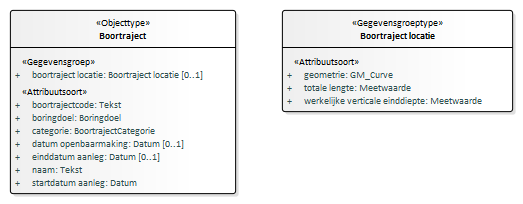
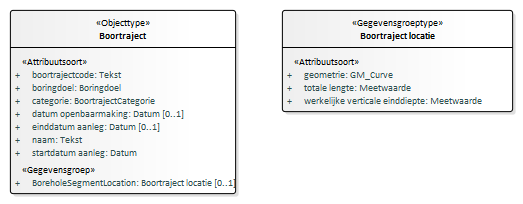
Conceptualmodel-MijnbouwconstructiesEPC-conceptueel-0.1versie27juli2020-1-20210315-20210407-151156

diff --git a/data/EPC-cat.msword.html b/data/EPC-cat.msword.html
@@ -15,7 +15,7 @@
    <body>
       <p>Conceptual model/Mijnbouwconstructies (EPC) - conceptueel/20210315</p>
       <p>Imvertor: 1.64.0</p>
-      <p>Model release: Conceptualmodel-MijnbouwconstructiesEPC-conceptueel-0.1versie27juli2020-1-20210315-20210407-145753</p>
+      <p>Model release: Conceptualmodel-MijnbouwconstructiesEPC-conceptueel-0.1versie27juli2020-1-20210315-20210407-151156</p>
       <hr>
       <section>
          <h1>Artikel 1 Definitie van registratieobject, entiteiten en attributen</h1>
@@ -62,7 +62,7 @@
          <section>
             <h2>Het domeinmodel</h2>
             <section id="">
-               <div class="imageinfo overview"><img src="Images/EAID_017CB205_53B6_4659_8664_F773CFA9FA2C.png" usemap="#imagemap-EAID_017CB205_53B6_4659_8664_F773CFA9FA2C" alt="Diagram "><map name="imagemap-EAID_017CB205_53B6_4659_8664_F773CFA9FA2C"><area shape="rect" alt="Mijnbouwwetvergunning" coords="701,10,879,90" href="#graph_EAID_27B442E5_A032_4487_8D18_F4E249D79776"><area shape="rect" alt="Zoutcaverne" coords="337,341,561,460" href="#graph_EAID_B71159A1_F213_4de2_AED5_550473F15950"><area shape="rect" alt="Mijnkaart" coords="902,341,1063,513" href="#graph_EAID_1A8DB415_AEF6_4f69_8E8C_0187A61B4D1B"><area shape="rect" alt="Ontginningszone" coords="834,593,1052,764" href="#graph_EAID_B1D55B65_6D27_4eb4_86EC_32DE6BA11322"><area shape="rect" alt="Transportzone" coords="573,592,793,750" href="#graph_EAID_828E18BC_B644_41e8_BF25_CBDE10E9249E"><area shape="rect" alt="Toegang" coords="360,593,537,751" href="#graph_EAID_35D7E222_DC56_4b0e_B219_FCFEF3AE6D86"><area shape="rect" alt="Mijnstelsel" coords="596,341,797,499" href="#graph_EAID_CACC8EE7_6654_4fe8_8333_101AC6BA294D"><area shape="rect" alt="Boorgat" coords="44,342,315,431" href="#graph_EAID_78FEC25A_E260_4420_9D1D_66F309EA2C60"><area shape="rect" alt="Boortraject" coords="44,485,257,669" href="#graph_EAID_4E52826A_2252_4994_8AD0_986AD45E18C9"><area shape="rect" alt="Mijnbouwconstructie" coords="287,10,567,264" href="#graph_EAID_69DE8D60_7E06_4b57_94CD_8338348EDAE5"></map><p><b>Mijnbouwconstructies (EPC) -  overzicht</b></p>
+               <div class="imageinfo overview"><img src="Images/EAID_017CB205_53B6_4659_8664_F773CFA9FA2C.png" usemap="#imagemap-EAID_017CB205_53B6_4659_8664_F773CFA9FA2C" alt="Diagram "><map name="imagemap-EAID_017CB205_53B6_4659_8664_F773CFA9FA2C"><area shape="rect" alt="Mijnbouwwetvergunning" coords="688,-4,866,76" href="#graph_EAID_27B442E5_A032_4487_8D18_F4E249D79776"><area shape="rect" alt="Zoutcaverne" coords="324,327,548,446" href="#graph_EAID_B71159A1_F213_4de2_AED5_550473F15950"><area shape="rect" alt="Mijnkaart" coords="889,327,1050,499" href="#graph_EAID_1A8DB415_AEF6_4f69_8E8C_0187A61B4D1B"><area shape="rect" alt="Ontginningszone" coords="821,579,1039,750" href="#graph_EAID_B1D55B65_6D27_4eb4_86EC_32DE6BA11322"><area shape="rect" alt="Transportzone" coords="560,578,780,736" href="#graph_EAID_828E18BC_B644_41e8_BF25_CBDE10E9249E"><area shape="rect" alt="Toegang" coords="347,579,524,737" href="#graph_EAID_35D7E222_DC56_4b0e_B219_FCFEF3AE6D86"><area shape="rect" alt="Mijnstelsel" coords="583,327,784,485" href="#graph_EAID_CACC8EE7_6654_4fe8_8333_101AC6BA294D"><area shape="rect" alt="Boorgat" coords="31,328,302,417" href="#graph_EAID_78FEC25A_E260_4420_9D1D_66F309EA2C60"><area shape="rect" alt="Boortraject" coords="31,471,262,655" href="#graph_EAID_4E52826A_2252_4994_8AD0_986AD45E18C9"><area shape="rect" alt="Mijnbouwconstructie" coords="274,-4,554,250" href="#graph_EAID_69DE8D60_7E06_4b57_94CD_8338348EDAE5"></map><p><b>Mijnbouwconstructies (EPC) -  overzicht</b></p>
                </div>
             </section>
          </section>
@@ -632,7 +632,7 @@
                            </tr>
                         </tbody>
                      </table>
-                     </section><a class="anchor" id="detail_d49678e2393"></a><section id="detail_d49678e2393">
+                     </section><a class="anchor" id="detail_d49680e2393"></a><section id="detail_d49680e2393">
                      <h4>  gebeurtenis</h4>
                      <table style="width: 100%;">
                         <colgroup style="width: 30%;"></colgroup>
@@ -665,7 +665,7 @@
                            </tr>
                         </tbody>
                      </table>
-                  </section><a class="anchor" id="detail_d49678e2560"></a><section id="detail_d49678e2560">
+                  </section><a class="anchor" id="detail_d49680e2560"></a><section id="detail_d49680e2560">
                      <h4>  gestandaardiseerde locatie</h4>
                      <table style="width: 100%;">
                         <colgroup style="width: 30%;"></colgroup>
@@ -711,7 +711,7 @@
                            </tr>
                         </tbody>
                      </table>
-                  </section><a class="anchor" id="detail_d49678e2776"></a><section id="detail_d49678e2776">
+                  </section><a class="anchor" id="detail_d49680e2776"></a><section id="detail_d49680e2776">
                      <h4>  levensduur</h4>
                      <table style="width: 100%;">
                         <colgroup style="width: 30%;"></colgroup>
@@ -745,7 +745,7 @@
                            </tr>
                         </tbody>
                      </table>
-                  </section><a class="anchor" id="detail_d49678e2943"></a><section id="detail_d49678e2943">
+                  </section><a class="anchor" id="detail_d49680e2943"></a><section id="detail_d49680e2943">
                      <h4>  registratiegeschiedenis</h4>
                      <table style="width: 100%;">
                         <colgroup style="width: 30%;"></colgroup>
@@ -1950,7 +1950,7 @@
                               </td>
                         </tr>
                      </tbody>
-                  </table><a class="anchor" id="detail_d49678e7017"></a><section id="detail_d49678e7017">
+                  </table><a class="anchor" id="detail_d49680e7017"></a><section id="detail_d49680e7017">
                      <h4>  aangeleverde verticale positie</h4>
                      <table style="width: 100%;">
                         <colgroup style="width: 30%;"></colgroup>
@@ -1983,7 +1983,7 @@
                            </tr>
                         </tbody>
                      </table>
-                  </section><a class="anchor" id="detail_d49678e7184"></a><section id="detail_d49678e7184">
+                  </section><a class="anchor" id="detail_d49680e7184"></a><section id="detail_d49680e7184">
                      <h4>  locatie</h4>
                      <table style="width: 100%;">
                         <colgroup style="width: 30%;"></colgroup>
@@ -3197,8 +3197,8 @@
                            </tr>
                         </tbody>
                      </table>
-                     </section><a class="anchor" id="detail_d49678e11229"></a><section id="detail_d49678e11229">
-                     <h4>  boortraject locatie</h4>
+                     </section><a class="anchor" id="detail_d49680e11229"></a><section id="detail_d49680e11229">
+                     <h4>  BoreholeSegmentLocation</h4>
                      <table style="width: 100%;">
                         <colgroup style="width: 30%;"></colgroup>
                         <colgroup style="width: 70%;"></colgroup>
@@ -3739,7 +3739,7 @@
                            </tr>
                         </tbody>
                      </table>
-                     </section><a class="anchor" id="detail_d49678e13966"></a><section id="detail_d49678e13966">
+                     </section><a class="anchor" id="detail_d49680e13967"></a><section id="detail_d49680e13967">
                      <h4>  gemijnd gebied</h4>
                      <table style="width: 100%;">
                         <colgroup style="width: 30%;"></colgroup>
@@ -4254,7 +4254,7 @@
                            </tr>
                         </tbody>
                      </table>
-                     </section><a class="anchor" id="detail_d49678e15080"></a><section id="detail_d49678e15080">
+                     </section><a class="anchor" id="detail_d49680e15081"></a><section id="detail_d49680e15081">
                      <h4>  locatie</h4>
                      <table style="width: 100%;">
                         <colgroup style="width: 30%;"></colgroup>
@@ -4564,7 +4564,7 @@
                            </tr>
                         </tbody>
                      </table>
-                     </section><a class="anchor" id="detail_d49678e16252"></a><section id="detail_d49678e16252">
+                     </section><a class="anchor" id="detail_d49680e16253"></a><section id="detail_d49680e16253">
                      <h4>  gebied</h4>
                      <table style="width: 100%;">
                         <colgroup style="width: 30%;"></colgroup>
@@ -4948,7 +4948,7 @@
                            </tr>
                         </tbody>
                      </table>
-                     </section><a class="anchor" id="detail_d49678e17680"></a><section id="detail_d49678e17680">
+                     </section><a class="anchor" id="detail_d49680e17681"></a><section id="detail_d49680e17681">
                      <h4>  gebied</h4>
                      <table style="width: 100%;">
                         <colgroup style="width: 30%;"></colgroup>
@@ -5617,7 +5617,7 @@
                            </tr>
                         </tbody>
                      </table>
-                     </section><a class="anchor" id="detail_d49678e20221"></a><section id="detail_d49678e20221">
+                     </section><a class="anchor" id="detail_d49680e20222"></a><section id="detail_d49680e20222">
                      <h4>  holruimtecontour</h4>
                      <table style="width: 100%;">
                         <colgroup style="width: 30%;"></colgroup>
@@ -5726,7 +5726,7 @@
                            <td>
                               
                               <p>Een samengesteld geometriegegevenstype waarbij wordt afgedwongen dat voor de geometrie
-                                 een keuze gemaakt moet worden tussen een punt (GMPoint), een vlak (GM<em>Surface) of een multivlak (GM</em>MultiSurface).</p>
+                                 een keuze gemaakt moet worden tussen een punt (GM<em>Point), een vlak (GM</em>Surface) of een multivlak (GM_MultiSurface).</p>
                               </td>
                         </tr>
                      </tbody>

diff --git a/data/EPC-cat.respec.html b/data/EPC-cat.respec.html
@@ -40,7 +40,7 @@
       </section>
    <section id="">
       <h2>Het domeinmodel   </h2>
-      <div class="imageinfo overview"><img src="data/Images/EAID_017CB205_53B6_4659_8664_F773CFA9FA2C.png" usemap="#imagemap-EAID_017CB205_53B6_4659_8664_F773CFA9FA2C" alt="Diagram "><map name="imagemap-EAID_017CB205_53B6_4659_8664_F773CFA9FA2C"><area shape="rect" alt="Mijnbouwwetvergunning" coords="701,10,879,90" href="#graph_EAID_27B442E5_A032_4487_8D18_F4E249D79776"><area shape="rect" alt="Zoutcaverne" coords="337,341,561,460" href="#graph_EAID_B71159A1_F213_4de2_AED5_550473F15950"><area shape="rect" alt="Mijnkaart" coords="902,341,1063,513" href="#graph_EAID_1A8DB415_AEF6_4f69_8E8C_0187A61B4D1B"><area shape="rect" alt="Ontginningszone" coords="834,593,1052,764" href="#graph_EAID_B1D55B65_6D27_4eb4_86EC_32DE6BA11322"><area shape="rect" alt="Transportzone" coords="573,592,793,750" href="#graph_EAID_828E18BC_B644_41e8_BF25_CBDE10E9249E"><area shape="rect" alt="Toegang" coords="360,593,537,751" href="#graph_EAID_35D7E222_DC56_4b0e_B219_FCFEF3AE6D86"><area shape="rect" alt="Mijnstelsel" coords="596,341,797,499" href="#graph_EAID_CACC8EE7_6654_4fe8_8333_101AC6BA294D"><area shape="rect" alt="Boorgat" coords="44,342,315,431" href="#graph_EAID_78FEC25A_E260_4420_9D1D_66F309EA2C60"><area shape="rect" alt="Boortraject" coords="44,485,257,669" href="#graph_EAID_4E52826A_2252_4994_8AD0_986AD45E18C9"><area shape="rect" alt="Mijnbouwconstructie" coords="287,10,567,264" href="#graph_EAID_69DE8D60_7E06_4b57_94CD_8338348EDAE5"></map><p><b>Mijnbouwconstructies (EPC) -  overzicht</b></p>
+      <div class="imageinfo overview"><img src="data/Images/EAID_017CB205_53B6_4659_8664_F773CFA9FA2C.png" usemap="#imagemap-EAID_017CB205_53B6_4659_8664_F773CFA9FA2C" alt="Diagram "><map name="imagemap-EAID_017CB205_53B6_4659_8664_F773CFA9FA2C"><area shape="rect" alt="Mijnbouwwetvergunning" coords="688,-4,866,76" href="#graph_EAID_27B442E5_A032_4487_8D18_F4E249D79776"><area shape="rect" alt="Zoutcaverne" coords="324,327,548,446" href="#graph_EAID_B71159A1_F213_4de2_AED5_550473F15950"><area shape="rect" alt="Mijnkaart" coords="889,327,1050,499" href="#graph_EAID_1A8DB415_AEF6_4f69_8E8C_0187A61B4D1B"><area shape="rect" alt="Ontginningszone" coords="821,579,1039,750" href="#graph_EAID_B1D55B65_6D27_4eb4_86EC_32DE6BA11322"><area shape="rect" alt="Transportzone" coords="560,578,780,736" href="#graph_EAID_828E18BC_B644_41e8_BF25_CBDE10E9249E"><area shape="rect" alt="Toegang" coords="347,579,524,737" href="#graph_EAID_35D7E222_DC56_4b0e_B219_FCFEF3AE6D86"><area shape="rect" alt="Mijnstelsel" coords="583,327,784,485" href="#graph_EAID_CACC8EE7_6654_4fe8_8333_101AC6BA294D"><area shape="rect" alt="Boorgat" coords="31,328,302,417" href="#graph_EAID_78FEC25A_E260_4420_9D1D_66F309EA2C60"><area shape="rect" alt="Boortraject" coords="31,471,262,655" href="#graph_EAID_4E52826A_2252_4994_8AD0_986AD45E18C9"><area shape="rect" alt="Mijnbouwconstructie" coords="274,-4,554,250" href="#graph_EAID_69DE8D60_7E06_4b57_94CD_8338348EDAE5"></map><p><b>Mijnbouwconstructies (EPC) -  overzicht</b></p>
       </div>
    </section>
    <section id="">
@@ -608,7 +608,7 @@
                   </tr>
                </tbody>
             </table>
-            </section><a class="anchor" id="detail_d49678e2393"></a><section id="detail_d49678e2393">
+            </section><a class="anchor" id="detail_d49680e2393"></a><section id="detail_d49680e2393">
             <h4>  gebeurtenis</h4>
             <table style="width: 100%;">
                <colgroup style="width: 30%;"></colgroup>
@@ -641,7 +641,7 @@
                   </tr>
                </tbody>
             </table>
-         </section><a class="anchor" id="detail_d49678e2560"></a><section id="detail_d49678e2560">
+         </section><a class="anchor" id="detail_d49680e2560"></a><section id="detail_d49680e2560">
             <h4>  gestandaardiseerde locatie</h4>
             <table style="width: 100%;">
                <colgroup style="width: 30%;"></colgroup>
@@ -687,7 +687,7 @@
                   </tr>
                </tbody>
             </table>
-         </section><a class="anchor" id="detail_d49678e2776"></a><section id="detail_d49678e2776">
+         </section><a class="anchor" id="detail_d49680e2776"></a><section id="detail_d49680e2776">
             <h4>  levensduur</h4>
             <table style="width: 100%;">
                <colgroup style="width: 30%;"></colgroup>
@@ -721,7 +721,7 @@
                   </tr>
                </tbody>
             </table>
-         </section><a class="anchor" id="detail_d49678e2943"></a><section id="detail_d49678e2943">
+         </section><a class="anchor" id="detail_d49680e2943"></a><section id="detail_d49680e2943">
             <h4>  registratiegeschiedenis</h4>
             <table style="width: 100%;">
                <colgroup style="width: 30%;"></colgroup>
@@ -1926,7 +1926,7 @@
                      </td>
                </tr>
             </tbody>
-         </table><a class="anchor" id="detail_d49678e7017"></a><section id="detail_d49678e7017">
+         </table><a class="anchor" id="detail_d49680e7017"></a><section id="detail_d49680e7017">
             <h4>  aangeleverde verticale positie</h4>
             <table style="width: 100%;">
                <colgroup style="width: 30%;"></colgroup>
@@ -1959,7 +1959,7 @@
                   </tr>
                </tbody>
             </table>
-         </section><a class="anchor" id="detail_d49678e7184"></a><section id="detail_d49678e7184">
+         </section><a class="anchor" id="detail_d49680e7184"></a><section id="detail_d49680e7184">
             <h4>  locatie</h4>
             <table style="width: 100%;">
                <colgroup style="width: 30%;"></colgroup>
@@ -3173,8 +3173,8 @@
                   </tr>
                </tbody>
             </table>
-            </section><a class="anchor" id="detail_d49678e11229"></a><section id="detail_d49678e11229">
-            <h4>  boortraject locatie</h4>
+            </section><a class="anchor" id="detail_d49680e11229"></a><section id="detail_d49680e11229">
+            <h4>  BoreholeSegmentLocation</h4>
             <table style="width: 100%;">
                <colgroup style="width: 30%;"></colgroup>
                <colgroup style="width: 70%;"></colgroup>
@@ -3715,7 +3715,7 @@
                   </tr>
                </tbody>
             </table>
-            </section><a class="anchor" id="detail_d49678e13966"></a><section id="detail_d49678e13966">
+            </section><a class="anchor" id="detail_d49680e13967"></a><section id="detail_d49680e13967">
             <h4>  gemijnd gebied</h4>
             <table style="width: 100%;">
                <colgroup style="width: 30%;"></colgroup>
@@ -4230,7 +4230,7 @@
                   </tr>
                </tbody>
             </table>
-            </section><a class="anchor" id="detail_d49678e15080"></a><section id="detail_d49678e15080">
+            </section><a class="anchor" id="detail_d49680e15081"></a><section id="detail_d49680e15081">
             <h4>  locatie</h4>
             <table style="width: 100%;">
                <colgroup style="width: 30%;"></colgroup>
@@ -4540,7 +4540,7 @@
                   </tr>
                </tbody>
             </table>
-            </section><a class="anchor" id="detail_d49678e16252"></a><section id="detail_d49678e16252">
+            </section><a class="anchor" id="detail_d49680e16253"></a><section id="detail_d49680e16253">
             <h4>  gebied</h4>
             <table style="width: 100%;">
                <colgroup style="width: 30%;"></colgroup>
@@ -4924,7 +4924,7 @@
                   </tr>
                </tbody>
             </table>
-            </section><a class="anchor" id="detail_d49678e17680"></a><section id="detail_d49678e17680">
+            </section><a class="anchor" id="detail_d49680e17681"></a><section id="detail_d49680e17681">
             <h4>  gebied</h4>
             <table style="width: 100%;">
                <colgroup style="width: 30%;"></colgroup>
@@ -5593,7 +5593,7 @@
                   </tr>
                </tbody>
             </table>
-            </section><a class="anchor" id="detail_d49678e20221"></a><section id="detail_d49678e20221">
+            </section><a class="anchor" id="detail_d49680e20222"></a><section id="detail_d49680e20222">
             <h4>  holruimtecontour</h4>
             <table style="width: 100%;">
                <colgroup style="width: 30%;"></colgroup>
@@ -5702,7 +5702,7 @@
                   <td>
                      
                      <p>Een samengesteld geometriegegevenstype waarbij wordt afgedwongen dat voor de geometrie
-                        een keuze gemaakt moet worden tussen een punt (GMPoint), een vlak (GM<em>Surface) of een multivlak (GM</em>MultiSurface).</p>
+                        een keuze gemaakt moet worden tussen een punt (GM<em>Point), een vlak (GM</em>Surface) of een multivlak (GM_MultiSurface).</p>
                      </td>
                </tr>
             </tbody>
